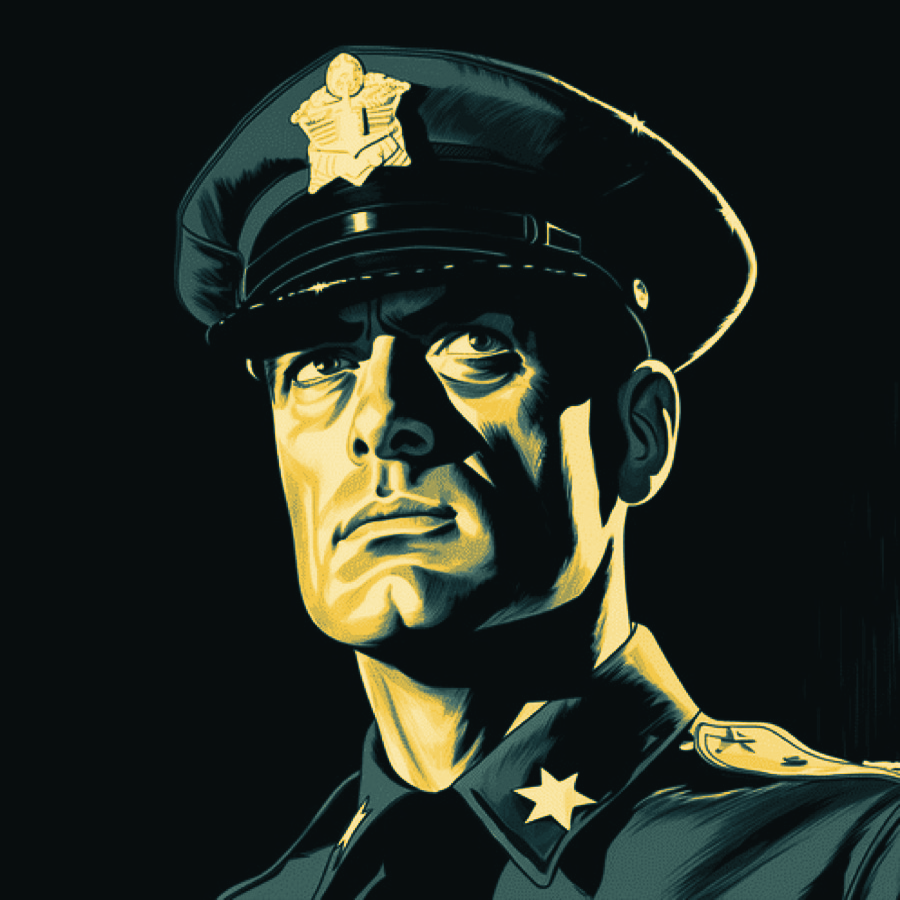
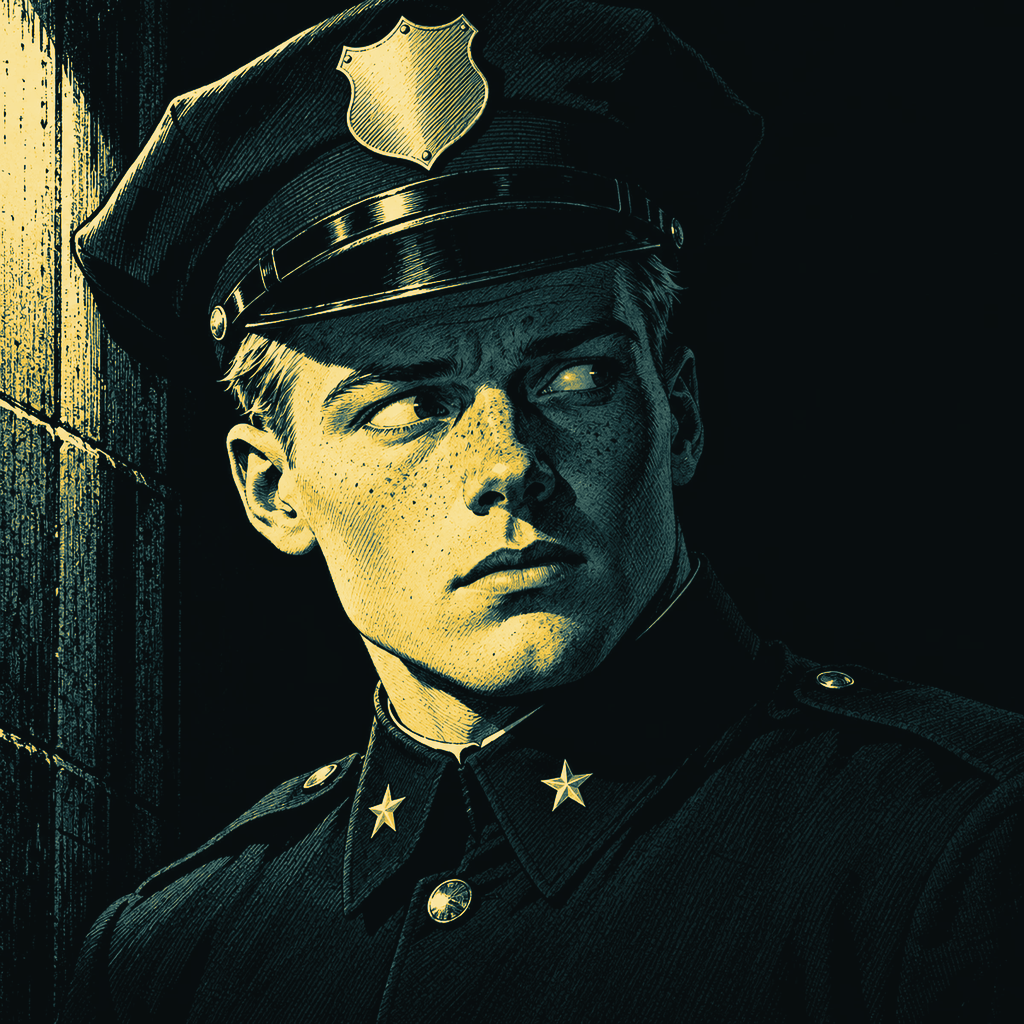
The Precinct: Tommy Doyle's own portrait
The rookie gets his card picture and a look written from it; the old
cop reference goes back to being a plain reference.

diff --git a/the-precinct/theme.js b/the-precinct/theme.js
@@ -48,11 +48,10 @@ export default {
       img: IMG + 'ref/hattie-card.jpg',
     },
     {
-      // The picture is a stand-in (the old `cop` reference) until Glenn's new portrait arrives.
       id: 'rookie', name: 'Patrolman Tommy Doyle', short: 'Tommy Doyle', role: 'The Rookie', tag: 'The one who saw',
       story: 'Three weeks on the job. He saw Frank Rourke do something on Vance’s orders and has told no one, because he doesn’t know who is safe to tell. He keeps crossing paths with Hattie Cole.',
-      look: 'a patrolman in his early twenties, fresh-faced and clean-shaven, a peaked police cap with a plain shield badge, a crisp dark uniform buttoned to the collar with a plain star on each collar point, shoulders squared, a wary sideways glance',
-      img: IMG + 'ref/cop.jpg',
+      look: 'a patrolman in his early twenties, fresh-faced and clean-shaven with freckles across his nose and cheeks, short fair hair, a dark peaked police cap with a plain shield badge, a dark uniform buttoned to the collar with a small star on each collar point, a wary sideways glance',
+      img: IMG + 'ref/tommy-card.jpg',
     },
     {
       id: 'owner', name: 'Charlotte Van Der Woning', short: 'Charlotte', role: 'The Owner', tag: 'The one who hears',
@@ -128,7 +127,7 @@ export default {
   refs: {
     'chief':         ['A heavy-set police chief in a fedora and long trench coat, hands in his pockets, scowling', 'character', 'commissioner'],
     'hat-woman':     ['A woman in a black wide-brimmed hat glancing over her shoulder against a yellow sky', 'character', 'reporter'],
-    'cop':           ['A uniformed police officer in a peaked cap with a badge and a star on his collar', 'character', 'rookie'],
+    'cop':           ['A uniformed police officer in a peaked cap with a badge and a star on his collar', 'character'],
     'bar':           ['A woman with waved hair in a café booth facing a man in a dark suit, two men watching behind', 'character'],
     'blonde-green':  ['Close-up of a blonde woman with dark lipstick, eyes lowered, in green tones', 'character'],
     'blonde-yellow': ['A blonde woman in a yellow jacket looking down, lit buildings behind her', 'character'],
@@ -142,6 +141,7 @@ export default {
     'vera-card':     ['A woman with shoulder-length platinum-blonde waves, pearl earrings and a black evening gown, looking back over her shoulder with a knowing smile', 'character', 'femme'],
     'rourke-card':   ['A huge muscular man in shirtsleeves, braces and a loosened tie, teeth bared around a matchstick, glaring out of the dark', 'character', 'disillusioned'],
     'hattie-card':   ['A woman in a wide-brimmed black hat and a pale trench coat, glancing back over her shoulder, a notebook and pen in her gloved hands', 'character', 'reporter'],
+    'tommy-card':    ['A young freckled patrolman in a peaked cap and a dark uniform with a star on each collar point, glancing sideways by a lit wall', 'character', 'rookie'],
     'charlotte-card':['A woman in her fifties with pinned-up hair and glasses on a chain, a dark dress with a white collar and a stepped brooch, arms folded', 'character', 'owner'],
     'ziggurat':      ['An empty Art Deco café at night: leather booths, a chrome counter with round stools, stepped glass lamps, a chevron floor and rain outside the windows', 'setting'],
     'rourke-front':  ['A huge muscular man in shirtsleeves and braces, a holster at his side and a jacket over his shoulder, scowling', 'character', 'disillusioned'],
@@ -381,7 +381,7 @@ export default {
   // Pictures offered in the comic builder's library.
   library: ['chief','hat-woman','cop','bar','blonde-green','blonde-yellow','rain-street','office','sunset-street','fedora','boss',
     'cop-badge','lamp-man','blue-man','houses','green-city','walking-woman','teal-woman','detective-car','sunset-man',
-    'walking-rain','hat-green','novak-card','vance-card','rourke-card','vera-card','hattie-card','charlotte-card','ziggurat',
+    'walking-rain','hat-green','novak-card','vance-card','rourke-card','vera-card','hattie-card','tommy-card','charlotte-card','ziggurat',
     'rourke-front','rourke-snarl','rourke-rage','rourke-sheet'],
 
   // Colours for captions, balloons, thoughts and sound effects in the comic builder, taken from the palettes above.

diff --git a/the-precinct/index.html b/the-precinct/index.html
@@ -480,7 +480,7 @@
         <a href="img/cast/frank-rourke-yellow.png" download><img class="noir" src="img/ref/rourke-card.jpg" alt="Sergeant Frank Rourke" loading="lazy" width="900" height="900"><span>Frank Rourke &darr;</span></a>
         <a href="img/cast/vera-sinclair-yellow.png" download><img class="noir" src="img/ref/vera-card.jpg" alt="Vera Sinclair" loading="lazy" width="800" height="800"><span>Vera Sinclair &darr;</span></a>
         <a href="img/cast/hattie-cole-yellow.png" download><img class="noir" src="img/ref/hattie-card.jpg" alt="Hattie Cole" loading="lazy" width="900" height="900"><span>Hattie Cole &darr;</span></a>
-        <a href="img/cast/tommy-doyle-yellow.png" download><img class="noir" src="img/ref/cop.jpg" alt="Patrolman Tommy Doyle" loading="lazy" width="900" height="891"><span>Tommy Doyle &darr;</span></a>
+        <a href="img/cast/tommy-doyle-yellow.png" download><img class="noir" src="img/ref/tommy-card.jpg" alt="Patrolman Tommy Doyle" loading="lazy" width="900" height="900"><span>Tommy Doyle &darr;</span></a>
         <a href="img/cast/charlotte-van-der-woning-yellow.png" download><img class="noir" src="img/ref/charlotte-card.jpg" alt="Charlotte Van Der Woning" loading="lazy" width="900" height="900"><span>Charlotte Van Der Woning &darr;</span></a>
         <a href="img/cast/the-ziggurat-yellow.png" download><img class="noir" src="img/ref/ziggurat.jpg" alt="The Ziggurat, an Art Deco caf&eacute;" loading="lazy" width="900" height="600"><span>The Ziggurat &darr;</span></a>
       </div>

diff --git a/the-precinct/home.css b/the-precinct/home.css
@@ -153,6 +153,7 @@
   #cast-femme img{object-position:53% 30%}   /* her face is just right of centre: in a phone's narrow column this keeps it in view */
   #cast-reporter img{object-position:58% 30%}   /* and hers is further right still, under the hat brim */
   #cast-owner img{object-position:47% 25%}      /* hers is a touch left of centre */
+  #cast-rookie img{object-position:53% 25%}     /* his nose and both eyes sit just right of centre */
   .case .put{margin:10px 0 0;font-size:12px;color:var(--ink-p2)}
   .case-text{padding:12px 12px 14px;display:flex;flex-direction:column;flex:1}
   .case-tag{font-family:var(--label);letter-spacing:.14em;text-transform:uppercase;font-size:11px;color:var(--ink-p2)}
